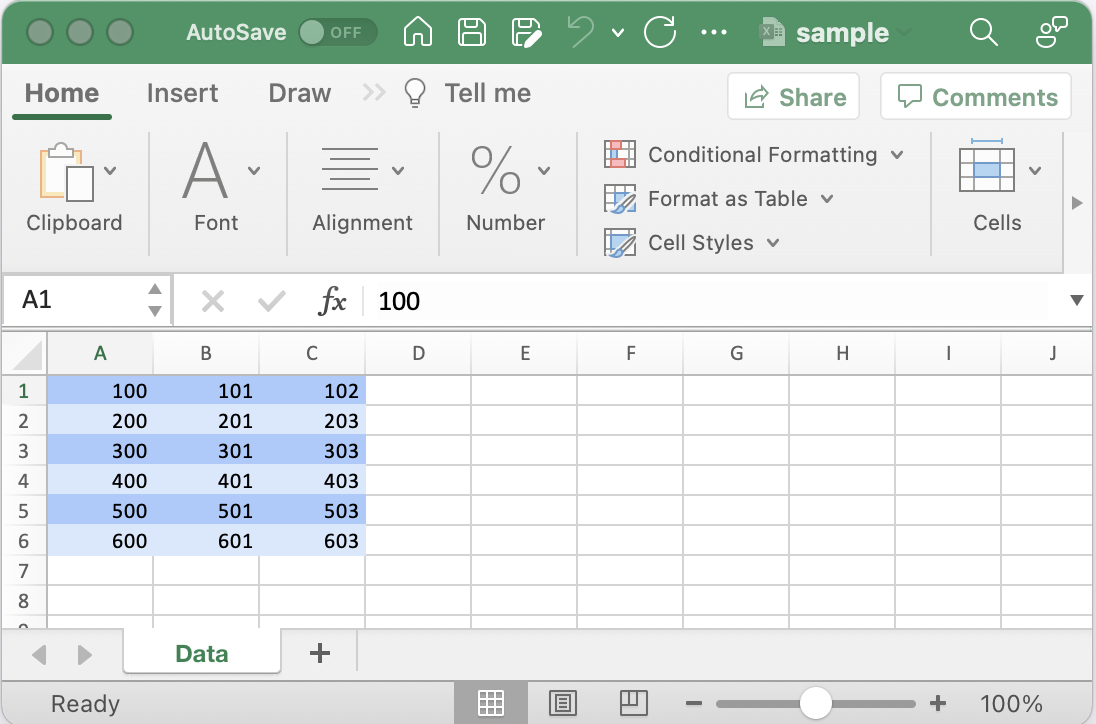
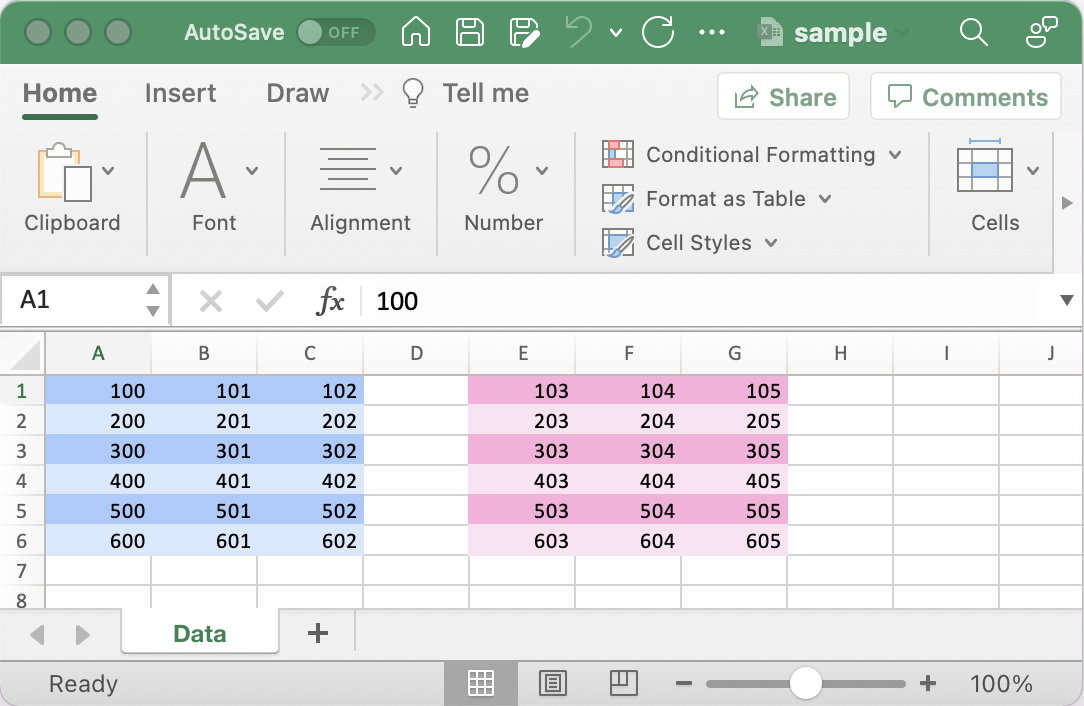
improved excel orw shading example

diff --git a/doc/readme/excel.md b/doc/readme/excel.md
@@ -661,14 +661,20 @@ Available border styles:
 
   (let [wbook (excel/writer :xlsx)
         sheet (excel/add-sheet wbook "Data")]
-    (excel/write-data wbook sheet [[100 101 102]
-                                   [200 201 203]
-                                   [300 301 303]
-                                   [400 401 403]
-                                   [500 501 503]
-                                   [600 601 603]])
+    (excel/write-data wbook sheet [[100 101 102 nil 103 104 105]
+                                   [200 201 202 nil 203 204 205]
+                                   [300 301 302 nil 303 304 305]
+                                   [400 401 402 nil 403 404 405]
+                                   [500 501 502 nil 503 504 505]
+                                   [600 601 602 nil 603 604 605]])
+    ;; left
     (run! #(excel/bg-color sheet % 1 3 "#a9cafc") (range 1 7 2))
     (run! #(excel/bg-color sheet % 1 3 "#d9e7fc") (range 2 7 2))
+    
+    ;; right
+    (run! #(excel/bg-color sheet % 5 7 "#fcaedc") (range 1 7 2))
+    (run! #(excel/bg-color sheet % 5 7 "#fce3f2") (range 2 7 2))
+    
     (excel/write->file wbook "sample.xlsx")))
 ```
 
